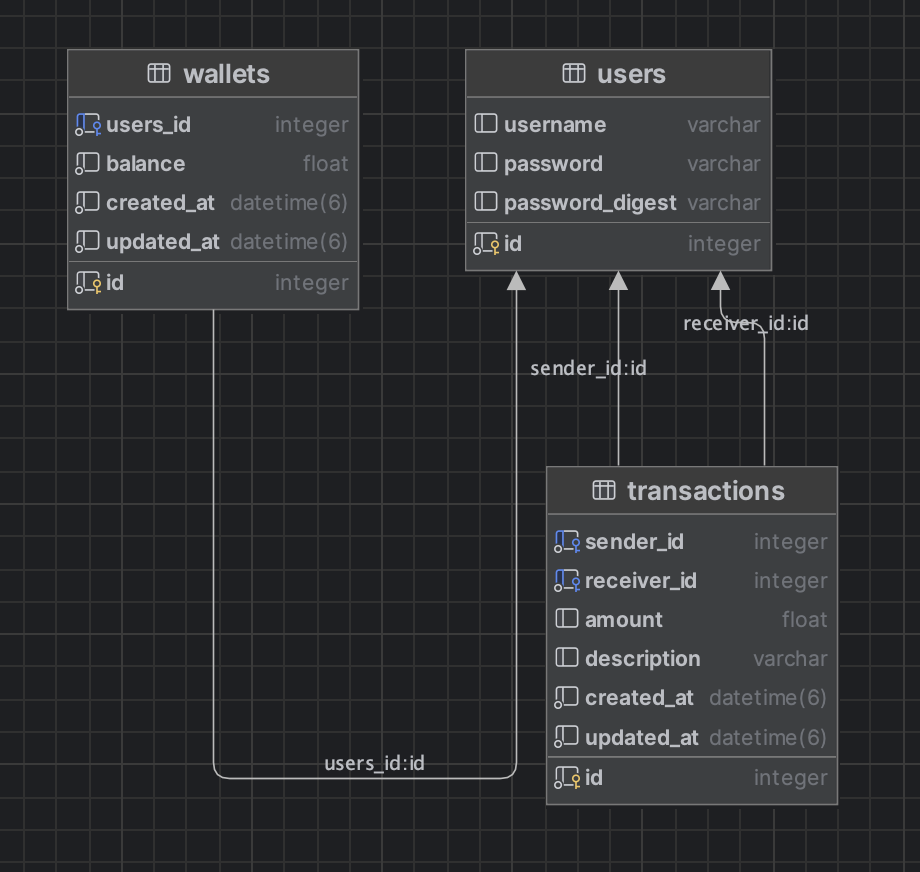
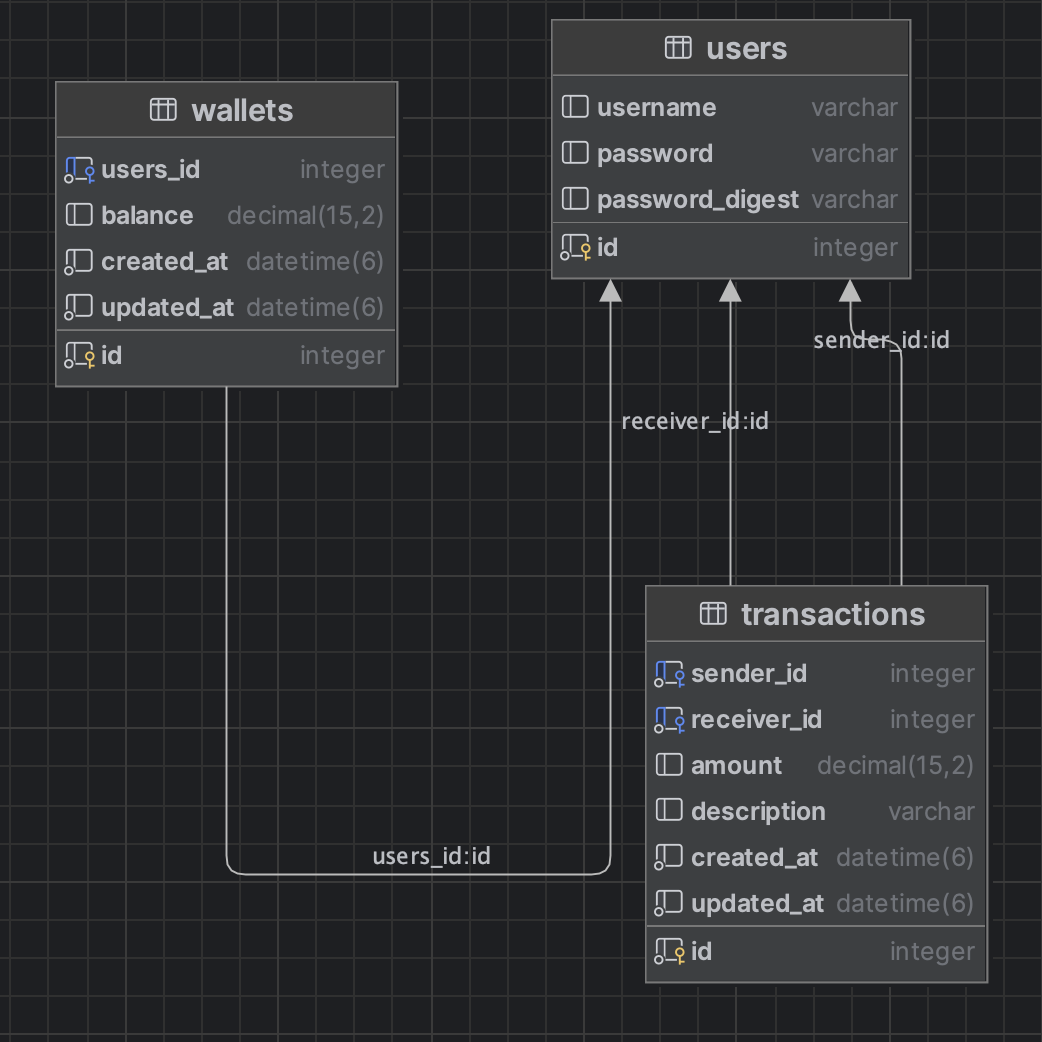
STI models and db diagram

diff --git a/db/schema.rb b/db/schema.rb
@@ -14,7 +14,7 @@ ActiveRecord::Schema[7.2].define(version: 2024_09_29_084551) do
   create_table "transactions", force: :cascade do |t|
     t.integer "sender_id", null: false
     t.integer "receiver_id", null: false
-    t.float "amount"
+    t.decimal "amount", precision: 15, scale: 2, default: "0.0"
     t.string "description"
     t.datetime "created_at", null: false
     t.datetime "updated_at", null: false
@@ -30,7 +30,7 @@ ActiveRecord::Schema[7.2].define(version: 2024_09_29_084551) do
 
   create_table "wallets", force: :cascade do |t|
     t.integer "users_id", null: false
-    t.float "balance", null: false
+    t.decimal "balance", precision: 15, scale: 2, default: "0.0"
     t.datetime "created_at", null: false
     t.datetime "updated_at", null: false
     t.index ["users_id"], name: "index_wallets_on_users_id"

diff --git a/app/models/user.rb b/app/models/user.rb
@@ -4,4 +4,16 @@ class User < ApplicationRecord
   # Optional validations
   validates :username, presence: true, uniqueness: true
   validates :password, presence: true, length: { minimum: 6 }, on: :create
+  has_one :wallet, dependent: :destroy
+  has_many :sent_transactions, class_name: "Transaction", foreign_key: "sender_id"
+  has_many :received_transactions, class_name: "Transaction", foreign_key: "receiver_id"
+
+  # Common method to perform transactions between users
+  def perform_transaction(receiver, amount, description = nil)
+    ActiveRecord::Base.transaction do
+      wallet.withdraw(amount)
+      receiver.wallet.deposit(amount)
+      Transaction.create!(sender: self, receiver: receiver, amount: amount, description: description)
+    end
+  end
 end

diff --git a/app/models/wallet.rb b/app/models/wallet.rb
@@ -1,2 +1,19 @@
 class Wallet < ApplicationRecord
+  belongs_to :user
+  has_many :sent_transactions, class_name: "Transaction", foreign_key: "sender_id"
+  has_many :received_transactions, class_name: "Transaction", foreign_key: "receiver_id"
+
+  def deposit(amount)
+    self.balance += amount
+    save!
+  end
+
+  def withdraw(amount)
+    if balance >= amount
+      self.balance -= amount
+      save!
+    else
+      raise "Insufficient funds"
+    end
+  end
 end

diff --git a/db/migrate/20240928152603_create_transactions.rb b/db/migrate/20240928152603_create_transactions.rb
@@ -3,7 +3,7 @@ class CreateTransactions < ActiveRecord::Migration[7.2]
     create_table :transactions do |t|
       t.references :sender, null: false, foreign_key: { to_table: :users } # Custom field name
       t.references :receiver, null: false, foreign_key: { to_table: :users } # Custom field name
-      t.float :amount
+      t.decimal :amount, precision: 15, scale: 2, default: 0.0
       t.string :description
       t.timestamps
     end

diff --git a/db/migrate/20240928152546_create_wallets.rb b/db/migrate/20240928152546_create_wallets.rb
@@ -2,7 +2,7 @@ class CreateWallets < ActiveRecord::Migration[7.2]
   def change
     create_table :wallets do |t|
       t.references :users, null: false, foreign_key: true
-      t.float :balance, null: false
+      t.decimal :balance, precision: 15, scale: 2, default: 0.0
       t.timestamps
     end
   end

diff --git a/db/seeds.rb b/db/seeds.rb
@@ -14,3 +14,11 @@ users = User.create([
           password: 'Pass12345'
         }
 ])
+
+wallets = Wallet.create([
+          {
+            users_id: 1,
+            balance: 500000.00
+          }
+
+])

diff --git a/app/models/transaction.rb b/app/models/transaction.rb
@@ -1,2 +1,6 @@
 class Transaction < ApplicationRecord
+  belongs_to :sender, class_name: "User"
+  belongs_to :receiver, class_name: "User"
+
+  validates :amount, numericality: { greater_than: 0 }
 end
